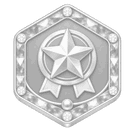
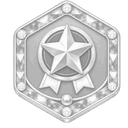
Insígnias: revisões de arte de 6 joias; versão no endereço da arte
Ela aprovou (18/09/2026) publicar as revisões de Primeiro pin, Três ambientes, Na
mosca, Cadastrador, Primeiro ouro e Três frentes. A arte fica 180 dias em cache
(CacheFirst) — ARTE_V no endereço faz o celular buscar a nova. Cache até 240.

diff --git a/chamada-ag-docencia/src/lib/insignias.js b/chamada-ag-docencia/src/lib/insignias.js
@@ -54,5 +54,7 @@ export const NOME_CAT = Object.fromEntries(CATEGORIAS.map(([k, n]) => [k, n]))
 export const COR_CAT = Object.fromEntries(CATEGORIAS.map(([k, , c]) => [k, c]))
 export const TOTAL = INSIGNIAS.length
 // arte: joias hexagonais (15/09/2026). Equipe em campo e Envio oficial ainda usam o rascunho.
+// ARTE_V muda a cada arte nova publicada: o celular guarda a arte por 180 dias (CacheFirst) pelo endereço
+const ARTE_V = '2026-09-18'
 export const arte = (k, { tam = 128, bloqueada = false } = {}) =>
-  `/insignias/${k}${bloqueada && !ehPioneira(k) ? '-bloqueada-128' : '-' + (tam > 128 ? 256 : 128)}.png`
+  `/insignias/${k}${bloqueada && !ehPioneira(k) ? '-bloqueada-128' : '-' + (tam > 128 ? 256 : 128)}.png?v=${ARTE_V}`

diff --git a/chamada-ag-docencia/vite.config.js b/chamada-ag-docencia/vite.config.js
@@ -61,7 +61,7 @@ export default defineConfig({
           {
             urlPattern: ({ url }) => url.pathname.startsWith('/insignias/'),
             handler: 'CacheFirst',
-            options: { cacheName: 'insignias', expiration: { maxEntries: 120, maxAgeSeconds: 60 * 60 * 24 * 180 }, cacheableResponse: { statuses: [0, 200] } }
+            options: { cacheName: 'insignias', expiration: { maxEntries: 240, maxAgeSeconds: 60 * 60 * 24 * 180 }, cacheableResponse: { statuses: [0, 200] } }
           },
           {
             urlPattern: ({ url }) => url.href.includes('supabase.co'),
